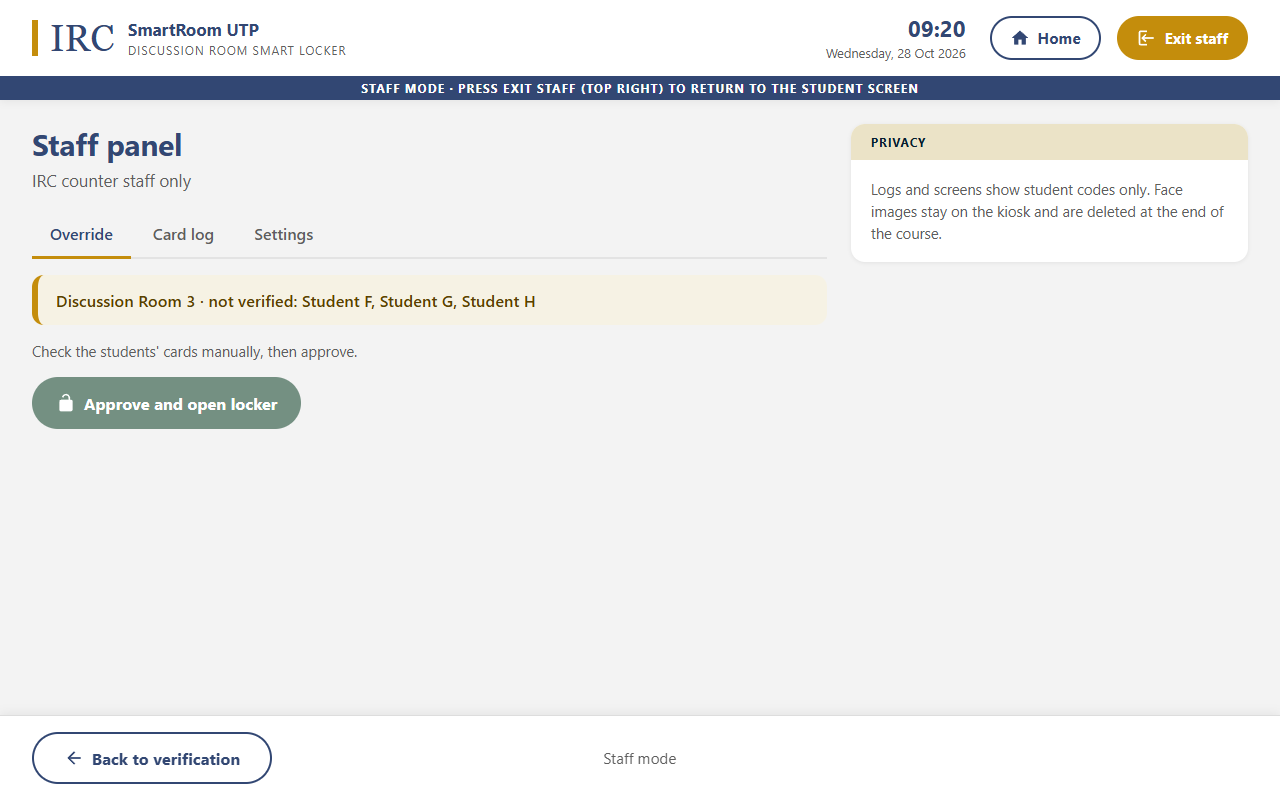
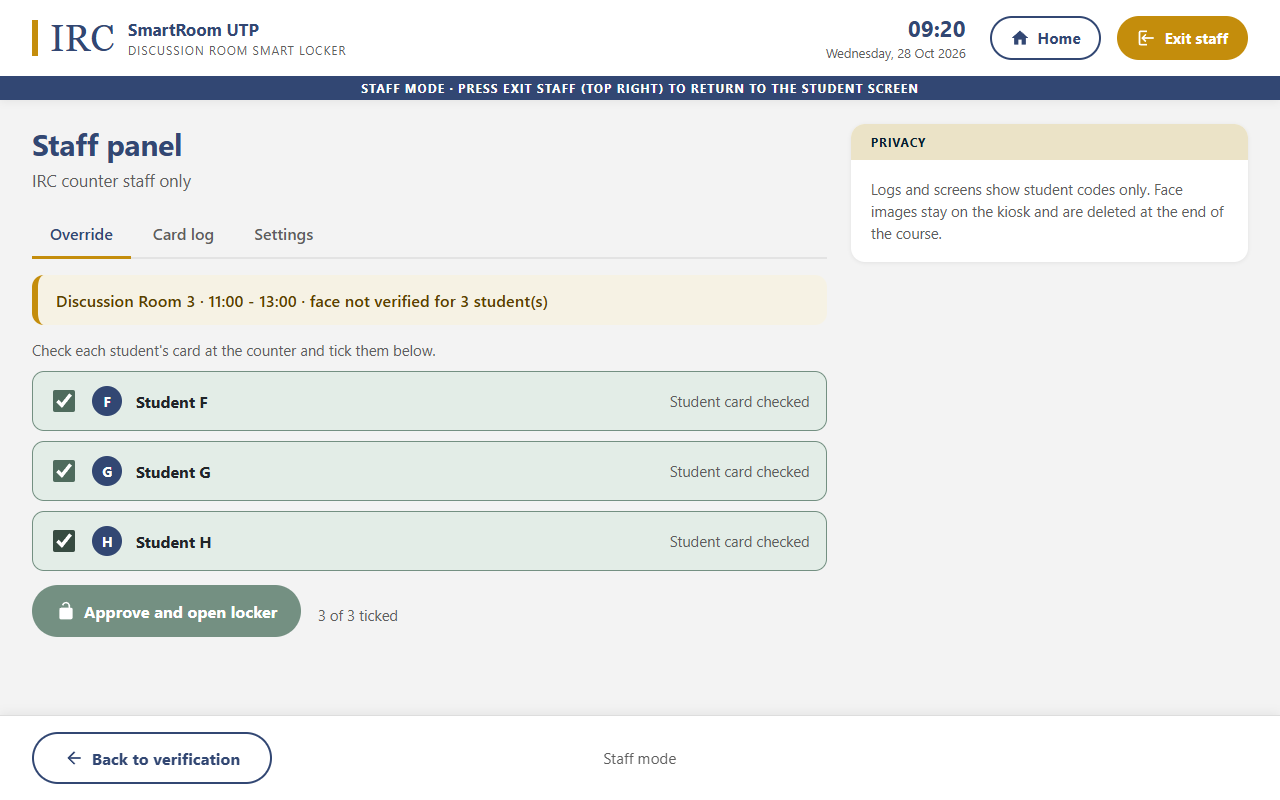
new screenshot

diff --git a/prototype/index.html b/prototype/index.html
@@ -88,9 +88,14 @@ main > .wrap > .hero:first-child{margin-top:24px;}
 .who{display:flex; align-items:center; gap:10px;}
 .av{width:30px; height:30px; border-radius:50%; background:var(--navy); color:#fff; font-weight:700; font-size:.85rem;
   display:flex; align-items:center; justify-content:center;}
-.av.ok{background:var(--sage);}
+.av.ok{background:var(--sage);} .av.staff{background:var(--gold);}
 .chip{padding:3px 12px; border-radius:999px; font-size:.78rem; font-weight:700;}
 .c-ok{background:var(--ok-soft); color:var(--sage-dark);} .c-wait{background:#EEE; color:#666;}
+.c-staff{background:var(--cream-soft); color:#5A4100; border:1px solid var(--gold-soft);}
+.check{display:flex; align-items:center; gap:14px; padding:14px 16px; border:1px solid var(--line); border-radius:12px;
+  background:#fff; cursor:pointer; font-size:1rem; margin-bottom:10px;}
+.check input{width:22px; height:22px; accent-color:var(--sage-dark);}
+.check.on{border-color:var(--sage); background:var(--ok-soft);}
 .progress{height:10px; border-radius:6px; background:#E6E6E6; overflow:hidden; margin-top:6px;}
 .progress div{height:100%; background:var(--sage); transition:width .3s;}
 .msg{border-radius:12px; padding:14px 18px; font-weight:600; font-size:1.02rem;}
@@ -202,7 +207,7 @@ const DEMO = new URLSearchParams(location.search).get("time");
 function now(){ const d=new Date(); if(DEMO){const [h,m]=DEMO.split(":"); d.setHours(+h,+m,0);} return d; }
 
 /* ---------------- state ---------------- */
-const S = {page:"home", mode:"collect", booking:null, verified:{}, fails:0, msg:null, override:false,
+const S = {checks:{}, page:"home", mode:"collect", booking:null, verified:{}, fails:0, msg:null, override:false,
            t0:0, staffOk:false, staffTab:"override", prev:null, log:[], query:""};
 
 const ICON = {
@@ -223,7 +228,8 @@ const ICON = {
 const $ = id => document.getElementById(id);
 const need = () => S.mode==="collect" ? CFG.needCollect : CFG.needReturn;
 const pending = () => S.booking.members.filter(m => !(m in S.verified));
-const approved = () => S.override || Object.keys(S.verified).length >= need();
+const approved = () => Object.keys(S.verified).length >= need();
+const byStaff = () => Object.keys(S.verified).filter(m => S.verified[m]==="staff");
 const locker = b => String(BOOKINGS.indexOf(b)+1).padStart(2,"0");
 const cardsOut = () => { const last={}; S.log.forEach(r => last[r.id]=r.action); return Object.keys(last).filter(k=>last[k]==="collect"); };
 const btn = (label, fn, cls="", icon="") => `<button class="btn ${cls}" onclick="${fn}">${icon?ICON[icon]:""}${label}</button>`;
@@ -237,7 +243,7 @@ function status(b){
 }
 
 function go(page){ S.page=page; render(); window.scrollTo(0,0); }
-function goHome(){ Object.assign(S,{page:"home",booking:null,verified:{},fails:0,msg:null,override:false,staffOk:false,prev:null}); render(); }
+function goHome(){ Object.assign(S,{page:"home",booking:null,verified:{},fails:0,msg:null,override:false,staffOk:false,prev:null,checks:{}}); render(); }
 function enterStaff(){ S.prev = S.page; go("staff"); }
 function exitStaff(){
   S.staffOk=false;
@@ -274,11 +280,12 @@ function steps(){
 function bookingPanel(showStatus){
   const b=S.booking, [st,cls]=status(b), n=Object.keys(S.verified).length, req=need();
   const rows = b.members.map(m=>{
-    const ok = m in S.verified;
-    const chip = showStatus ? (ok?'<span class="chip c-ok">✓ Verified</span>':'<span class="chip c-wait">Waiting</span>') : "";
-    return `<div class="member"><span class="who"><span class="av ${ok?"ok":""}">${m.split(" ")[1]}</span>${m}${m===b.by?" (booker)":""}</span>${chip}</div>`;
+    const ok = m in S.verified, staff = S.verified[m]==="staff";
+    const chip = !showStatus ? "" : staff ? '<span class="chip c-staff">✓ Staff checked</span>'
+               : ok ? '<span class="chip c-ok">✓ Verified</span>' : '<span class="chip c-wait">Waiting</span>';
+    return `<div class="member"><span class="who"><span class="av ${staff?"staff":ok?"ok":""}">${m.split(" ")[1]}</span>${m}${m===b.by?" (booker)":""}</span>${chip}</div>`;
   }).join("");
-  const prog = showStatus ? `<div style="margin-top:12px;font-weight:700;color:var(--navy)">${n} of ${req} verified</div>
+  const prog = showStatus ? `<div style="margin-top:12px;font-weight:700;color:var(--navy)">${n} of ${req} verified${byStaff().length?` <span class="sub">· ${byStaff().length} by staff card check</span>`:""}</div>
      <div class="progress"><div style="width:${Math.min(100,100*n/req)}%"></div></div>` : "";
   return `<div class="card"><div class="ct">Your booking</div><div class="cb">
     <h3>${b.room}<span class="badge ${cls}">${st}</span></h3>
@@ -351,10 +358,11 @@ result(){
   if (approved()){
     const what = collect ? "Take your <b>room key card</b> and <b>pencil case</b> (2 markers, 1 duster)."
                          : "Place the <b>room key card</b> and <b>pencil case</b> inside, then close the door.";
+    const n = Object.keys(S.verified).length;
     bar("", "Press the button after closing the locker door", btn(collect?"Card taken":"Card returned","finish()","primary","next"));
     return steps()+`<div class="grid"><div class="card result ok">${lockerSvg(true)}<div class="body">
         <h2 class="title ok">✓ Access approved</h2>
-        <p class="lead" style="margin:0">${S.override?"Approved by staff":"All students verified"}. <b>Locker ${locker(b)}</b> is now open.</p>
+        <p class="lead" style="margin:0">${S.override?`${n-byStaff().length} verified by face, ${byStaff().length} checked by staff`:"All students verified"}. <b>Locker ${locker(b)}</b> is now open.</p>
         <div class="msg m-ok">${what}</div></div></div>
       <div class="stack">${bookingPanel(true)}</div></div>`;
   }
@@ -394,10 +402,16 @@ staff(){
   const tabs = ["override","log","settings"].map(t=>`<button class="tab ${S.staffTab===t?"on":""}" onclick="S.staffTab='${t}';render()">${{override:"Override",log:"Card log",settings:"Settings"}[t]}</button>`).join("");
   let body = "";
   if (S.staffTab==="override"){
-    body = S.booking && !approved()
-      ? `<div class="msg m-info">${S.booking.room} · not verified: ${pending().join(", ")}</div>
-         <p class="sub">Check the students' cards manually, then approve.</p>
-         ${btn("Approve and open locker","S.override=true;S.staffOk=false;go('result')","primary","lock")}`
+    const todo = S.booking && !approved() ? pending() : [];
+    const ticked = todo.filter(m => S.checks[m]).length, short = need() - Object.keys(S.verified).length;
+    body = todo.length
+      ? `<div class="msg m-info">${S.booking.room} · ${S.booking.slot} · face not verified for ${todo.length} student(s)</div>
+         <p class="sub" style="margin:14px 0 10px">Check each student's card at the counter and tick them below.</p>
+         ${todo.map(m=>`<label class="check ${S.checks[m]?"on":""}"><input type="checkbox" ${S.checks[m]?"checked":""}
+            onchange="S.checks['${m}']=this.checked;render()"><span class="av">${m.split(" ")[1]}</span><b>${m}</b>
+            <span class="sub" style="margin-left:auto">Student card checked</span></label>`).join("")}
+         <div style="margin-top:14px"><button class="btn primary" ${ticked>=short?"":"disabled"} onclick="approveByStaff()">${ICON.lock}Approve and open locker</button>
+         <span class="sub" style="margin-left:12px">${ticked} of ${short} ticked</span></div>`
       : `<div class="msg m-info">No denied verification waiting. Requests appear here when a student presses Call staff.</div>`;
   } else if (S.staffTab==="log"){
     body = `<div class="card"><div class="cb"><table><tr><th>Time</th><th>Booking</th><th>Room</th><th>Action</th><th>Method</th><th>Students</th></tr>
@@ -419,7 +433,7 @@ staff(){
 
 /* ---------------- actions ---------------- */
 function pick(id){
-  Object.assign(S,{booking:BOOKINGS.find(b=>b.id===id), verified:{}, fails:0, msg:null, override:false, t0:Date.now(), query:""});
+  Object.assign(S,{booking:BOOKINGS.find(b=>b.id===id), verified:{}, fails:0, msg:null, override:false, t0:Date.now(), query:"", checks:{}});
   go("scan");
 }
 function scan(stranger){
@@ -437,8 +451,14 @@ function scan(stranger){
 function finish(){
   const b=S.booking;
   S.log.push({time:now().toTimeString().slice(0,8), id:b.id, room:b.room, action:S.mode,
-              method:S.override?"staff override":"face", students:Object.keys(S.verified).join("; ")||"-"});
+              method:S.override?"face + staff check":"face",
+              students:Object.keys(S.verified).map(m=>S.verified[m]==="staff"?`${m} (staff)`:m).join("; ")||"-"});
   go("done");
+}
+function approveByStaff(){
+  pending().filter(m => S.checks[m]).forEach(m => S.verified[m] = "staff");
+  Object.assign(S, {override:true, staffOk:false, checks:{}});
+  go("result");
 }
 function search(v){
   S.query=v; render(); const q=$("q"); q.focus(); q.setSelectionRange(v.length,v.length);

diff --git a/tools/capture_screens.py b/tools/capture_screens.py
@@ -58,7 +58,10 @@ def main(channel, width, height):
             click("Unknown face")
         shot("collect_denied")
         click("Call staff"); shot("staff_login")
-        staff_login(); shot("staff_override")
+        staff_login()
+        for box in page.locator(".check input").all():
+            box.check()
+        shot("staff_override")
         click("Approve and open locker"); shot("staff_override_approved")
         click("Card taken"); click("Finish")
 
